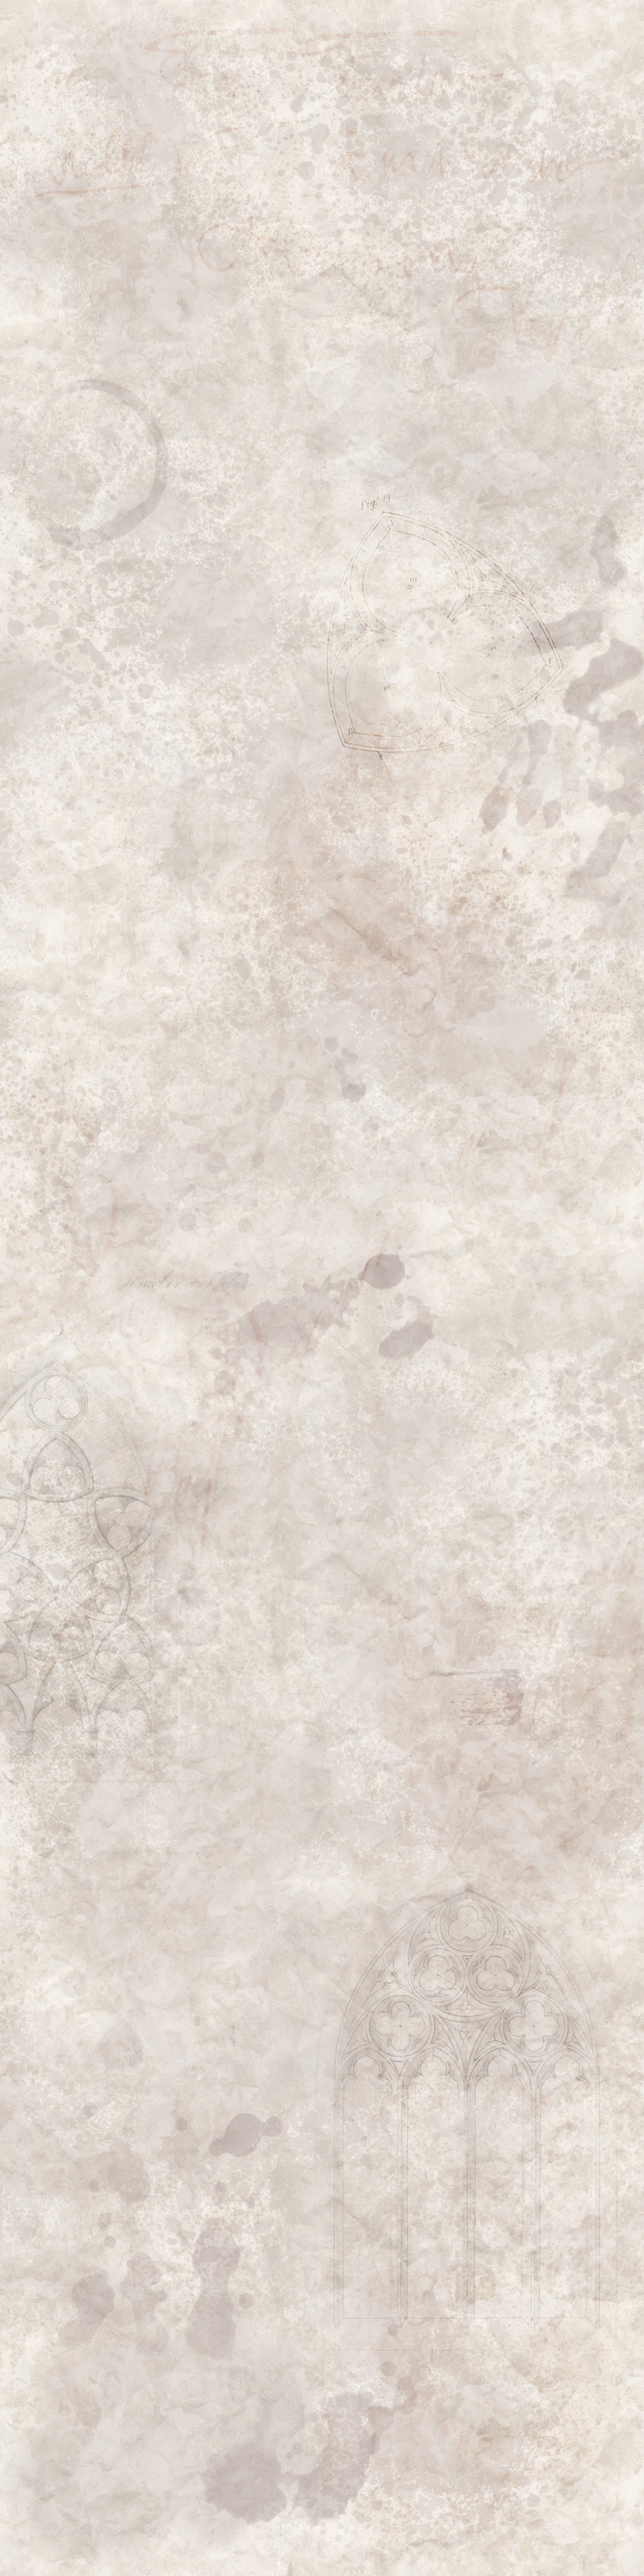
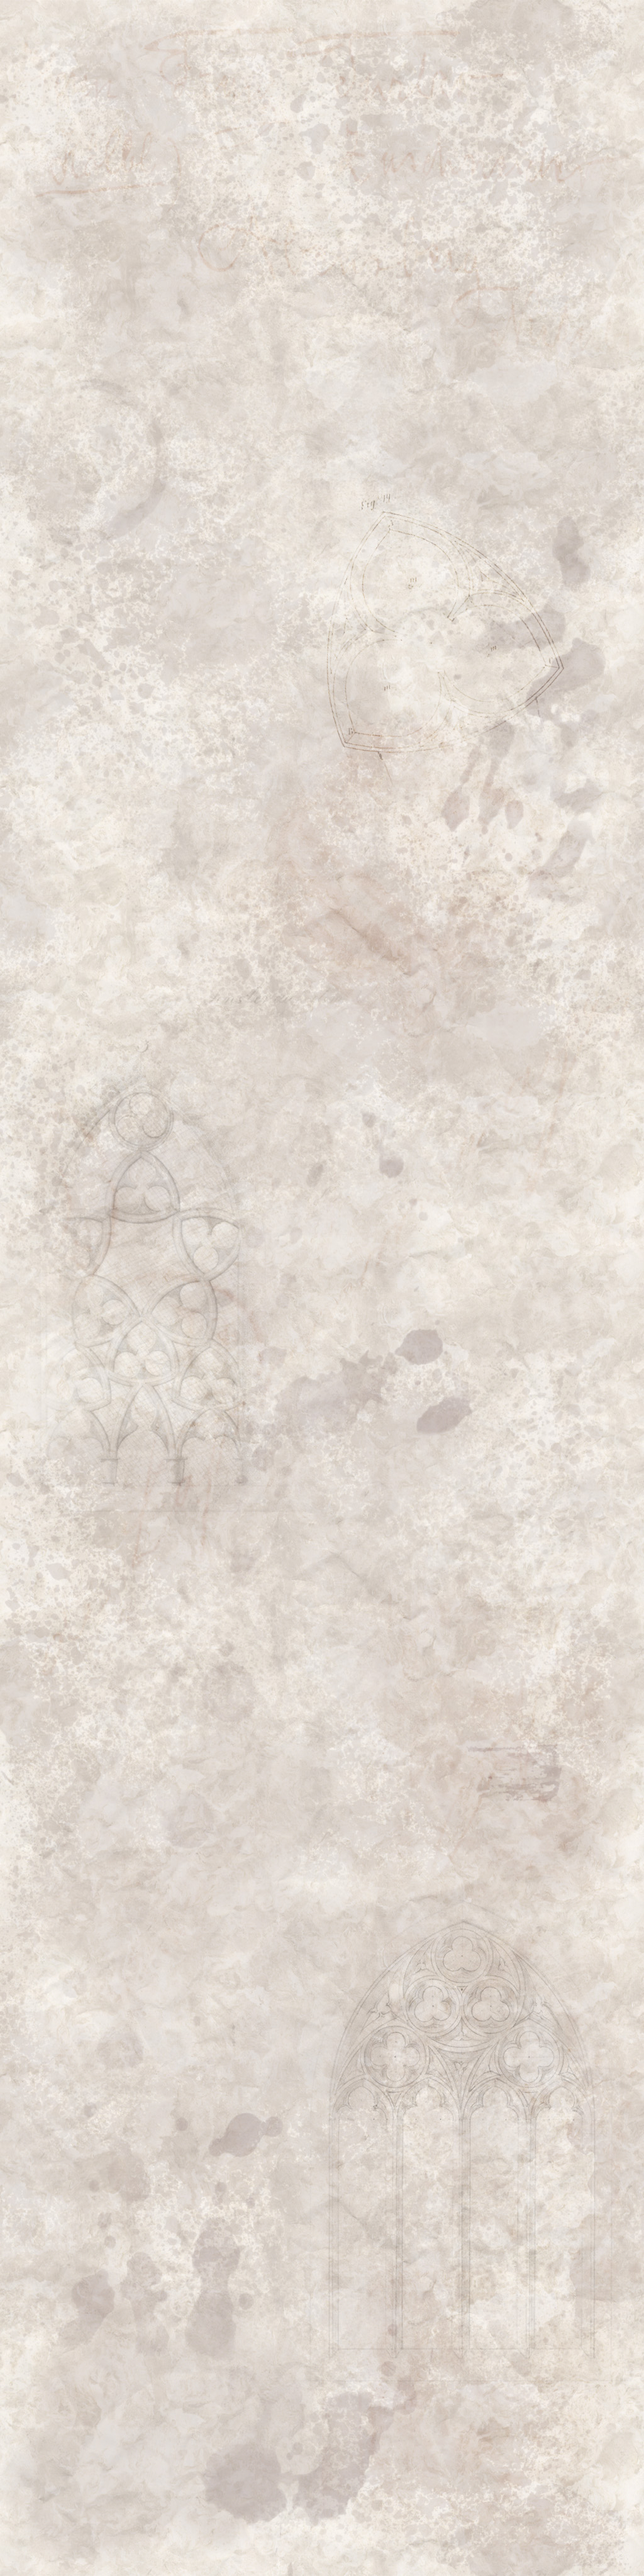
log entfernt, mein Bild verkleinert, neuer Hintergrund

diff --git a/vue/bula2023/src/router/index.js b/vue/bula2023/src/router/index.js
@@ -39,7 +39,6 @@ const router = createRouter({
   routes,
   scrollBehavior(to, from, savedPosition) {
     if (savedPosition) return savedPosition;
-    console.log(to);
     if (to.hash != "") return {el: to.hash, top: 130, left: 0, behavior: to.path == from.path ? 'smooth' : 'auto'};
     return {top: 0};
   }

diff --git a/vue/bula2023/src/components/buLaHeader.vue b/vue/bula2023/src/components/buLaHeader.vue
@@ -38,7 +38,6 @@ export default {
     toggleMenu: function(e) {
       this.displayMenu = !this.displayMenu;
       if (this.displayMenu) {
-        console.log(e.pointerType);
         if (e.pointerType=="touch") {
           window.addEventListener("touchstart", () => {
             this.displayMenu = false;
